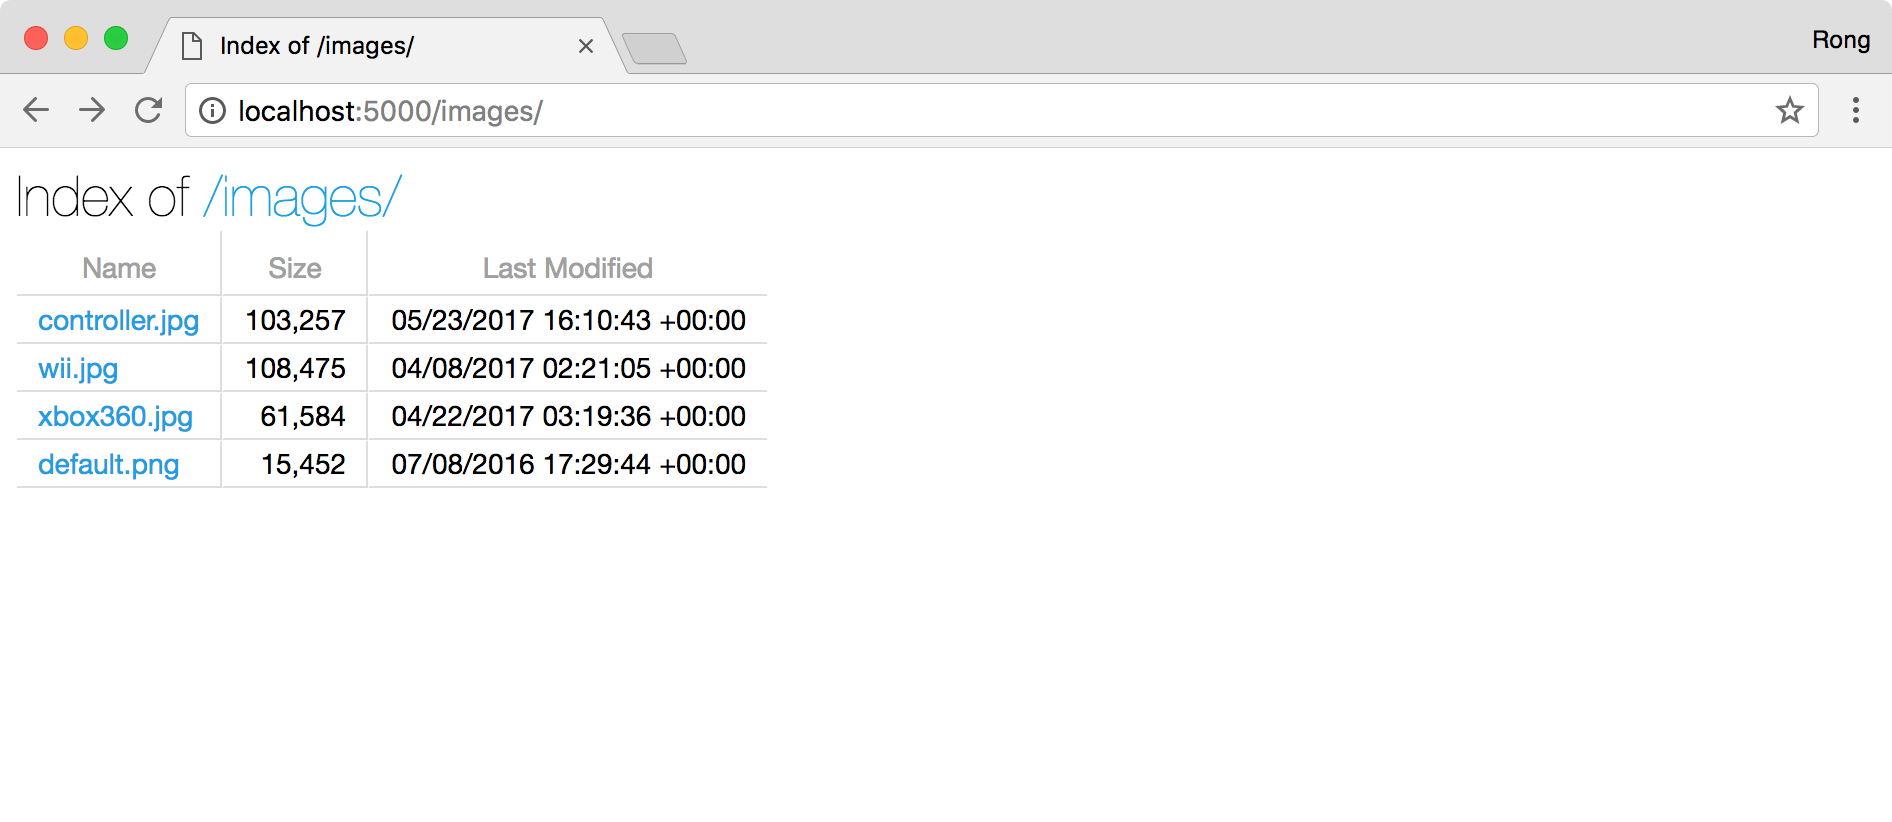
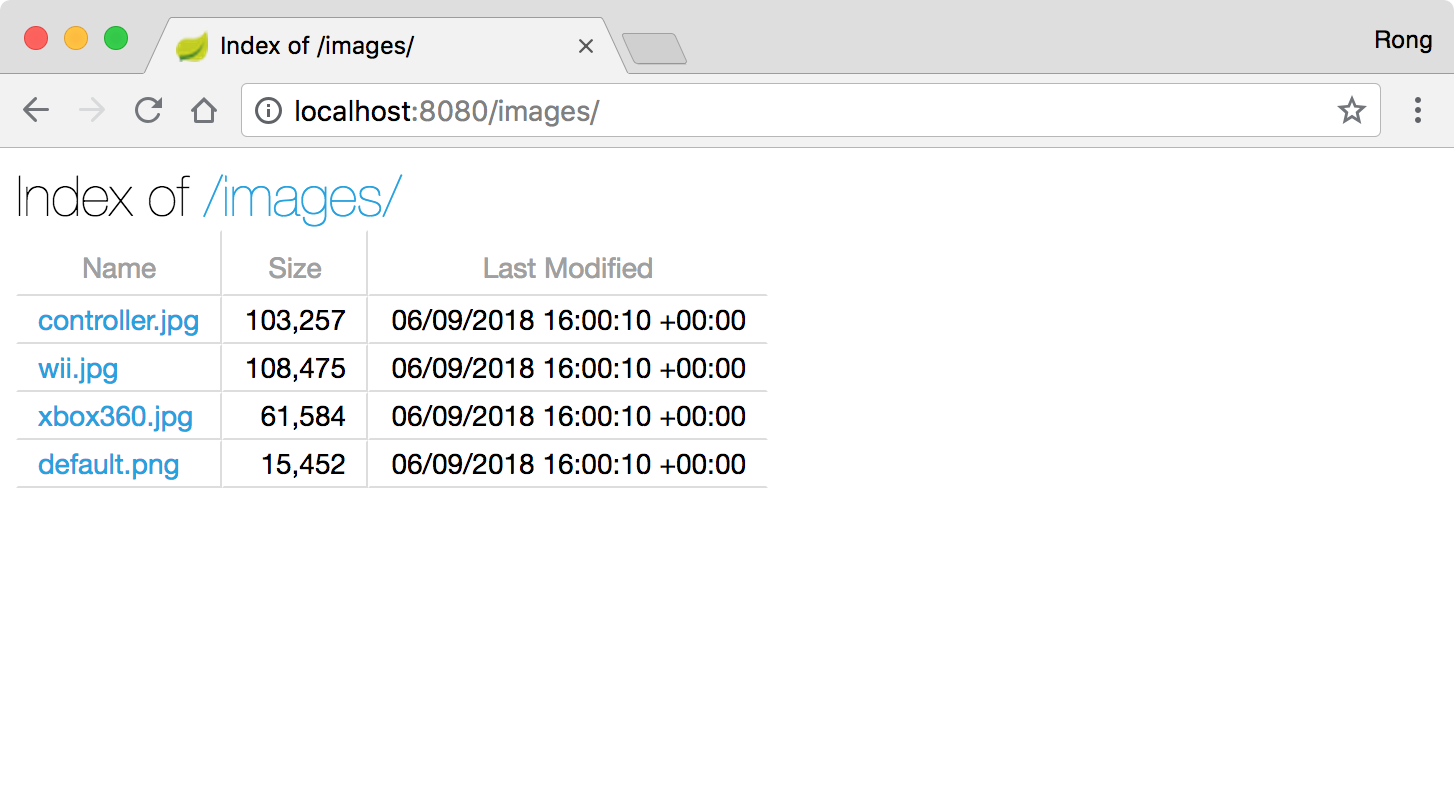
update tutorial restful api aspnet, port

diff --git a/_tutorial/react/building-restful-apis-with-aspnet-core.md b/_tutorial/react/building-restful-apis-with-aspnet-core.md
@@ -380,7 +380,7 @@ public void Configure(IApplicationBuilder app, IHostingEnvironment env)
     ...
 }
 ````
-When accessing the URL 'http://localhost:5000/images/controller.jpg'. The image with name 'controller.jpg' is displayed in the browser.
+When accessing the URL 'http://localhost:8080/images/controller.jpg'. The image with name 'controller.jpg' is displayed in the browser.
 ![image](/public/tutorials/366/images_serving.png){:width="700px"}  
 ### 4.3 Enabling Directory Browsing
 In Startup.cs, make the changes as follows.
@@ -406,10 +406,10 @@ public void Configure(IApplicationBuilder app, IHostingEnvironment env)
    ...
 }
 ```
-When accessing the URL 'http://localhost:5000/images/'. All the images in '~/wwwwroot/images/' folder are displayed.
+When accessing the URL 'http://localhost:8080/images/'. All the images in '~/wwwwroot/images/' folder are displayed.
 ![image](/public/tutorials/366/directory browsing.png){:width="700px"}  
 ### 4.4 Getting Base URL in .NET Core
-Base URL is the 'root' of the RESTful service. Take the API of getting all products as example, the full URL address is 'http://localhost:5000/api/products'. Here, 'http://localhost:5000/' is the base URL, which includes the host name(or ip address) and port number. It looks like a prefix for all APIs. We need this base URL to generate the full URL after image is uploaded to service. We will rely on the HttpContext to get the host and port number.
+Base URL is the 'root' of the RESTful service. Take the API of getting all products as example, the full URL address is 'http://localhost:8080/api/products'. Here, 'http://localhost:8080/' is the base URL, which includes the host name(or ip address) and port number. It looks like a prefix for all APIs. We need this base URL to generate the full URL after image is uploaded to service. We will rely on the HttpContext to get the host and port number.
 
 Register HttpContextAccessor in the Startup:
 ```c#
@@ -451,12 +451,12 @@ We created 6 APIs and will test them through Postman, see next blog.
 
 API                       | Description         | URL
 --------------------------|---------------------|--------------
-GET /api/products         | Get all products    | GET [http://localhost:5000/api/products](http://localhost:5000/api/products)
-GET /api/products/{id}    | Get a product by ID | GET [http://localhost:5000/api/products/1](http://localhost:5000/api/products/1)
-POST /api/products        | Add a new product   | POST [http://localhost:5000/api/products](http://localhost:5000/api/products)
-PUT /api/products/{id}    | Update a product    | PUT [http://localhost:5000/api/products/1](http://localhost:5000/api/products/1)
-DELETE /api/products/{id} | Delete a product    | DELETE [http://localhost:5000/api/products/1](http://localhost:5000/api/products/1)
-POST /api/upload          | Upload an image     | POST [http://localhost:5000/api/upload](http://localhost:5000/api/upload)
+GET /api/products         | Get all products    | GET [http://localhost:8080/api/products](http://localhost:8080/api/products)
+GET /api/products/{id}    | Get a product by ID | GET [http://localhost:8080/api/products/1](http://localhost:8080/api/products/1)
+POST /api/products        | Add a new product   | POST [http://localhost:8080/api/products](http://localhost:8080/api/products)
+PUT /api/products/{id}    | Update a product    | PUT [http://localhost:8080/api/products/1](http://localhost:8080/api/products/1)
+DELETE /api/products/{id} | Delete a product    | DELETE [http://localhost:8080/api/products/1](http://localhost:8080/api/products/1)
+POST /api/upload          | Upload an image     | POST [http://localhost:8080/api/upload](http://localhost:8080/api/upload)
 
 ## 5. Source Files
 * [Source files of RESTful API(ASP.NET Core) on Github](https://github.com/jojozhuang/Tutorials/tree/master/RestfulAspNet)
